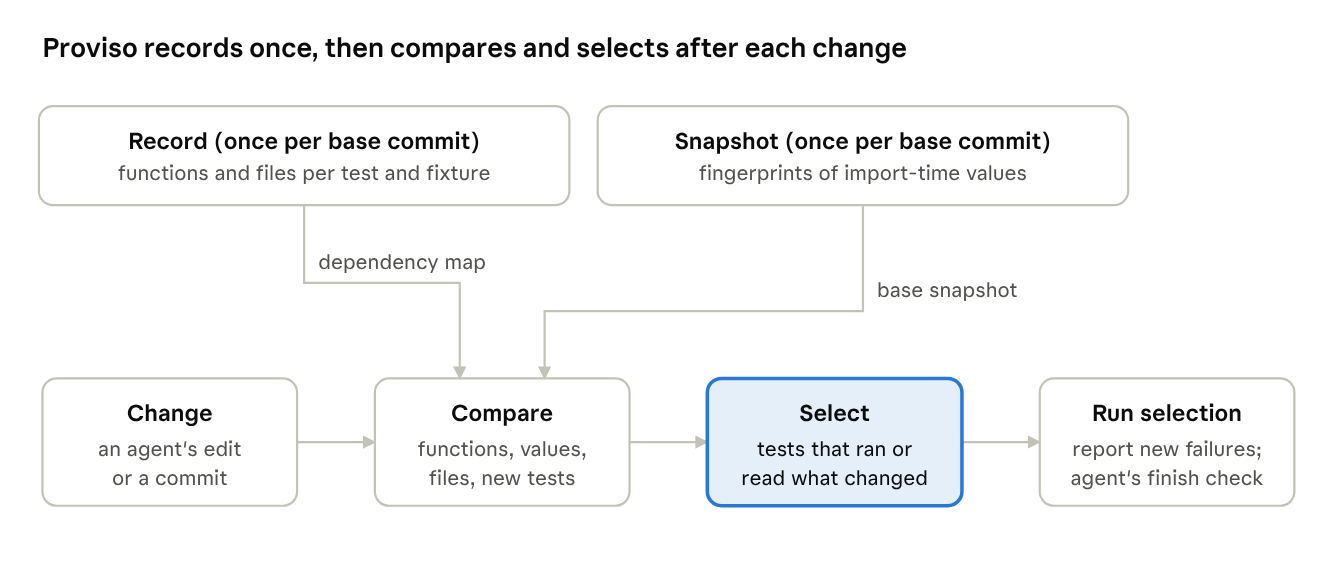
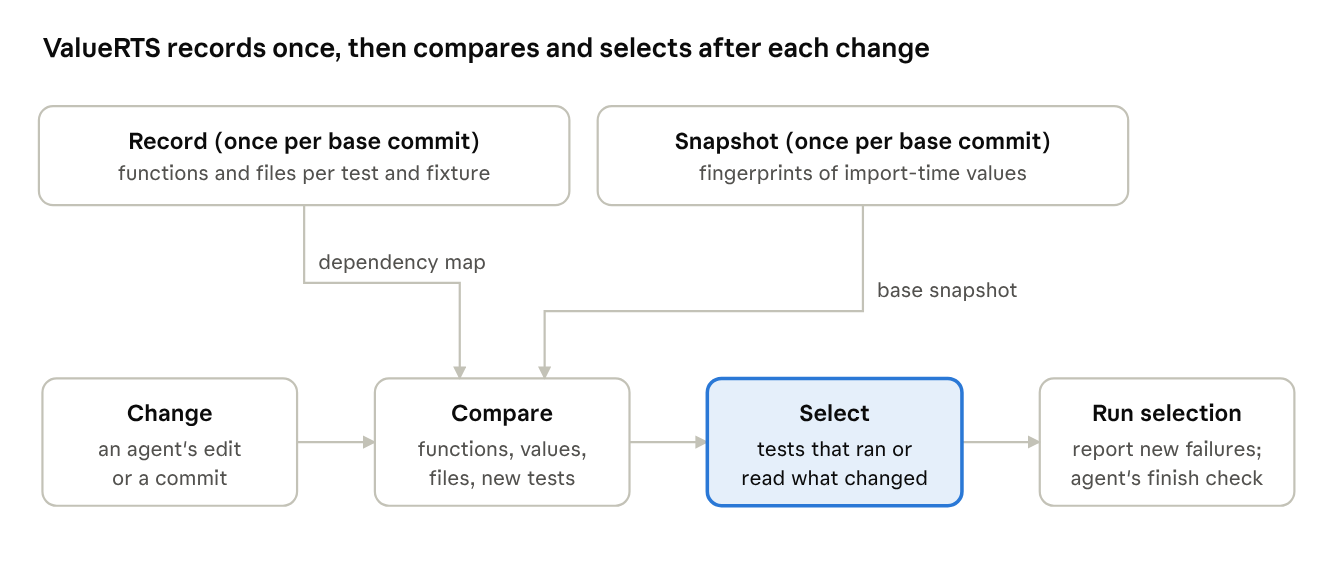
paper: tool renamed ValueRTS, title 'ValueRTS: Safe Regression Test Selection for AI Coding Agents in Python' (draft rev 136), Figure 1 re-rendered

Changed region(s): [[0.0312, 0.0603, 0.6875, 0.1206]]

diff --git a/paper/restyle.py b/paper/restyle.py
@@ -24,11 +24,11 @@ R(r"""\usepackage{xcolor}
 R(r"""\newcommand{\ph}[1]{\textcolor{red}{[#1]}}
 """, r"""\newcommand{\ph}[1]{\textcolor{red}{[#1]}}
 % Style conventions (as in recent ISSTA/ICSE/ASE RTS papers):
-% - our tool's name in small caps through one macro; baselines keep their authors' spelling, in plain text;
+% - the tool's name through one macro, in plain text like NameRTS and BabelRTS;
 % - run-in paragraph headings in bold sentence case ending with a period, through one macro;
 % - italics only for a term at its definition and for the key insight; no bold inside sentences;
 % - research questions as a list with bold labels; each RQ ends with a shaded "Answer to RQn" box.
-\newcommand{\tool}{\textsc{Proviso}\xspace}
+\newcommand{\tool}{ValueRTS\xspace}
 \newcommand{\para}[1]{\smallskip\noindent\textbf{#1}\hspace{0.4em}}
 \newtcolorbox{answerbox}[1]{enhanced,breakable,colback=black!5,colframe=black!45,boxrule=0.5pt,arc=1.5pt,
   left=5pt,right=5pt,top=3pt,bottom=3pt,fontupper=\small,before skip=6pt,after skip=6pt,
@@ -36,12 +36,12 @@ R(r"""\newcommand{\ph}[1]{\textcolor{red}{[#1]}}
 """)
 
 # ---------- tool name -> \tool in the body (not the title or comments) ----------
-s = s.replace(r"\textbf{Proviso}", "Proviso")
+s = s.replace(r"\textbf{ValueRTS}", "ValueRTS")
 head, body = s.split(r"\begin{abstract}", 1)
 out = []
 for ln in body.split("\n"):
     if not ln.lstrip().startswith("%"):
-        ln = re.sub(r"(?<![\w{/\\-])Proviso(?![\w-])", r"\\tool", ln)
+        ln = re.sub(r"(?<![\w{/\\-])ValueRTS(?![\w-])", r"\\tool", ln)
     out.append(ln)
 s = head + r"\begin{abstract}" + "\n".join(out)
 s = s.replace(r"\textbf{\tool}", r"\tool")
@@ -179,10 +179,10 @@ assert n == 15, ("list-item leads", n)
 
 # ---------- run-in paragraph headings at the start of a line -> \para ----------
 s = re.sub(r"(?m)^\\textbf\{([^{}]*\.)\} ", lambda m: "\\para{%s}" % m.group(1), s)
-# the tool's name where it starts a caption or a table header (the \\w lookbehind above skips "{Proviso")
-s = s.replace(r"\caption{Proviso end to end", r"\caption{\tool end to end")
-for h in ["Proviso missed", "Proviso recording (s)", r"Proviso \% time"]:
-    s = s.replace(r"\textbf{%s}" % h, r"\textbf{%s}" % h.replace("Proviso", r"\tool"))
+# the tool's name where it starts a caption or a table header (the \\w lookbehind above skips "{ValueRTS")
+s = s.replace(r"\caption{ValueRTS end to end", r"\caption{\tool end to end")
+for h in ["ValueRTS missed", "ValueRTS recording (s)", r"ValueRTS \% time"]:
+    s = s.replace(r"\textbf{%s}" % h, r"\textbf{%s}" % h.replace("ValueRTS", r"\tool"))
 open(p, "w").write(s)
 body = s.split(r"\maketitle")[1]
 left = [ln[:90] for ln in body.split("\n") if r"\textbf" in ln and not ln.lstrip().startswith((r"\item", "&")) and r"& \textbf" not in ln]

diff --git a/paper/doc2tex.py b/paper/doc2tex.py
@@ -1,4 +1,4 @@
-"""Convert the Proviso paper draft (Claude Docs XML) into an acmart LaTeX file."""
+"""Convert the ValueRTS paper draft (Claude Docs XML) into an acmart LaTeX file."""
 import html
 import re
 import sys
@@ -107,7 +107,7 @@ TABLE_CAPTIONS = {
     1: "Research questions and the benchmarks that answer them.",
     2: "RQ1: missed failures and cost on real changes (B1, scenario S; B1b).",
     3: "RQ1: changes that touch import-time state against the rest (B1).",
-    4: "RQ2: Proviso with one part switched off, and the traditional rule (B1).",
+    4: "RQ2: ValueRTS with one part switched off, and the traditional rule (B1).",
     5: "RQ3: agent regressions (B3), full-suite ground truth.",
     6: "RQ4: overhead and break-even per project (B1).",
 }
@@ -162,9 +162,9 @@ while i < len(children):
         cap = runs(children[i]) if i < len(children) and children[i].tag == "paragraph" else ""
         i += 1
         body.append("\\begin{figure}[t]\n\\centering\n\\includegraphics[width=\\linewidth]{figures/overview.png}\n"
-                    "\\caption{Proviso end to end. %s}\n\\label{fig:overview}\n\\end{figure}\n" % cap)
+                    "\\caption{ValueRTS end to end. %s}\n\\label{fig:overview}\n\\end{figure}\n" % cap)
 
-tex = r"""%% Proviso: ISSTA 2027 submission draft, generated from the paper draft doc on 26 Nov 2026.
+tex = r"""%% ValueRTS: ISSTA 2027 submission draft, generated from the paper draft doc on 26 Nov 2026.
 %% Red [..] marks are placeholders, filled after the 13 Dec run freeze.
 \documentclass[acmsmall,screen,review,anonymous]{acmart}
 \usepackage{booktabs}
@@ -179,7 +179,7 @@ tex = r"""%% Proviso: ISSTA 2027 submission draft, generated from the paper draf
 
 \begin{document}
 
-%% Working title, not yet agreed: settle it with Dr Li (it cannot change after submission).
+%% Title chosen 26 Nov 2026; confirm with Dr Li (it cannot change after submission).
 \title{%(title)s}
 \author{Anonymous Author(s)}
 \affiliation{\institution{Anonymous Institution}\country{Anonymous}}
@@ -203,7 +203,7 @@ tex = r"""%% Proviso: ISSTA 2027 submission draft, generated from the paper draf
 \bibliography{references}
 
 \end{document}
-""" % {"title": "Proviso: Regression Test Selection for Python That Sees Import-Time State", "abstract": "\n".join(abstract), "body": "\n".join(body)}
+""" % {"title": "ValueRTS: Safe Regression Test Selection for AI Coding Agents in Python", "abstract": "\n".join(abstract), "body": "\n".join(body)}
 SECS = ["introduction", "background-and-motivating-example", "approach", "implementation", "evaluation-setup",
         "results", "threats-to-validity", "related-work", "conclusion"]
 tex = re.sub(r"Section (\d)\b", lambda m: "Section~\\ref{sec:%s}" % SECS[int(m.group(1)) - 1], tex)

diff --git a/paper/main.tex b/paper/main.tex
@@ -1,4 +1,4 @@
-% Proviso: ISSTA 2027 submission draft, generated from the paper draft doc on 26 Nov 2026.
+% ValueRTS: ISSTA 2027 submission draft, generated from the paper draft doc on 26 Nov 2026.
 % Red [..] marks are placeholders, filled after the 13 Dec run freeze.
 \documentclass[acmsmall,screen,review,anonymous]{acmart}
 \usepackage{booktabs}
@@ -12,11 +12,11 @@
 \lstset{basicstyle=\ttfamily\small,columns=fullflexible,keepspaces=true,frame=single,showstringspaces=false}
 \newcommand{\ph}[1]{\textcolor{red}{[#1]}}
 % Style conventions (as in recent ISSTA/ICSE/ASE RTS papers):
-% - our tool's name in small caps through one macro; baselines keep their authors' spelling, in plain text;
+% - the tool's name through one macro, in plain text like NameRTS and BabelRTS;
 % - run-in paragraph headings in bold sentence case ending with a period, through one macro;
 % - italics only for a term at its definition and for the key insight; no bold inside sentences;
 % - research questions as a list with bold labels; each RQ ends with a shaded "Answer to RQn" box.
-\newcommand{\tool}{\textsc{Proviso}\xspace}
+\newcommand{\tool}{ValueRTS\xspace}
 \newcommand{\para}[1]{\smallskip\noindent\textbf{#1}\hspace{0.4em}}
 \newtcolorbox{answerbox}[1]{enhanced,breakable,colback=black!5,colframe=black!45,boxrule=0.5pt,arc=1.5pt,
   left=5pt,right=5pt,top=3pt,bottom=3pt,fontupper=\small,before skip=6pt,after skip=6pt,
@@ -27,8 +27,8 @@
 
 \begin{document}
 
-% Working title, not yet agreed: settle it with Dr Li (it cannot change after submission).
-\title{Proviso: Regression Test Selection for Python That Sees Import-Time State}
+% Title chosen 26 Nov 2026; confirm with Dr Li (it cannot change after submission).
+\title{ValueRTS: Safe Regression Test Selection for AI Coding Agents in Python}
 \author{Anonymous Author(s)}
 \affiliation{\institution{Anonymous Institution}\country{Anonymous}}
 
